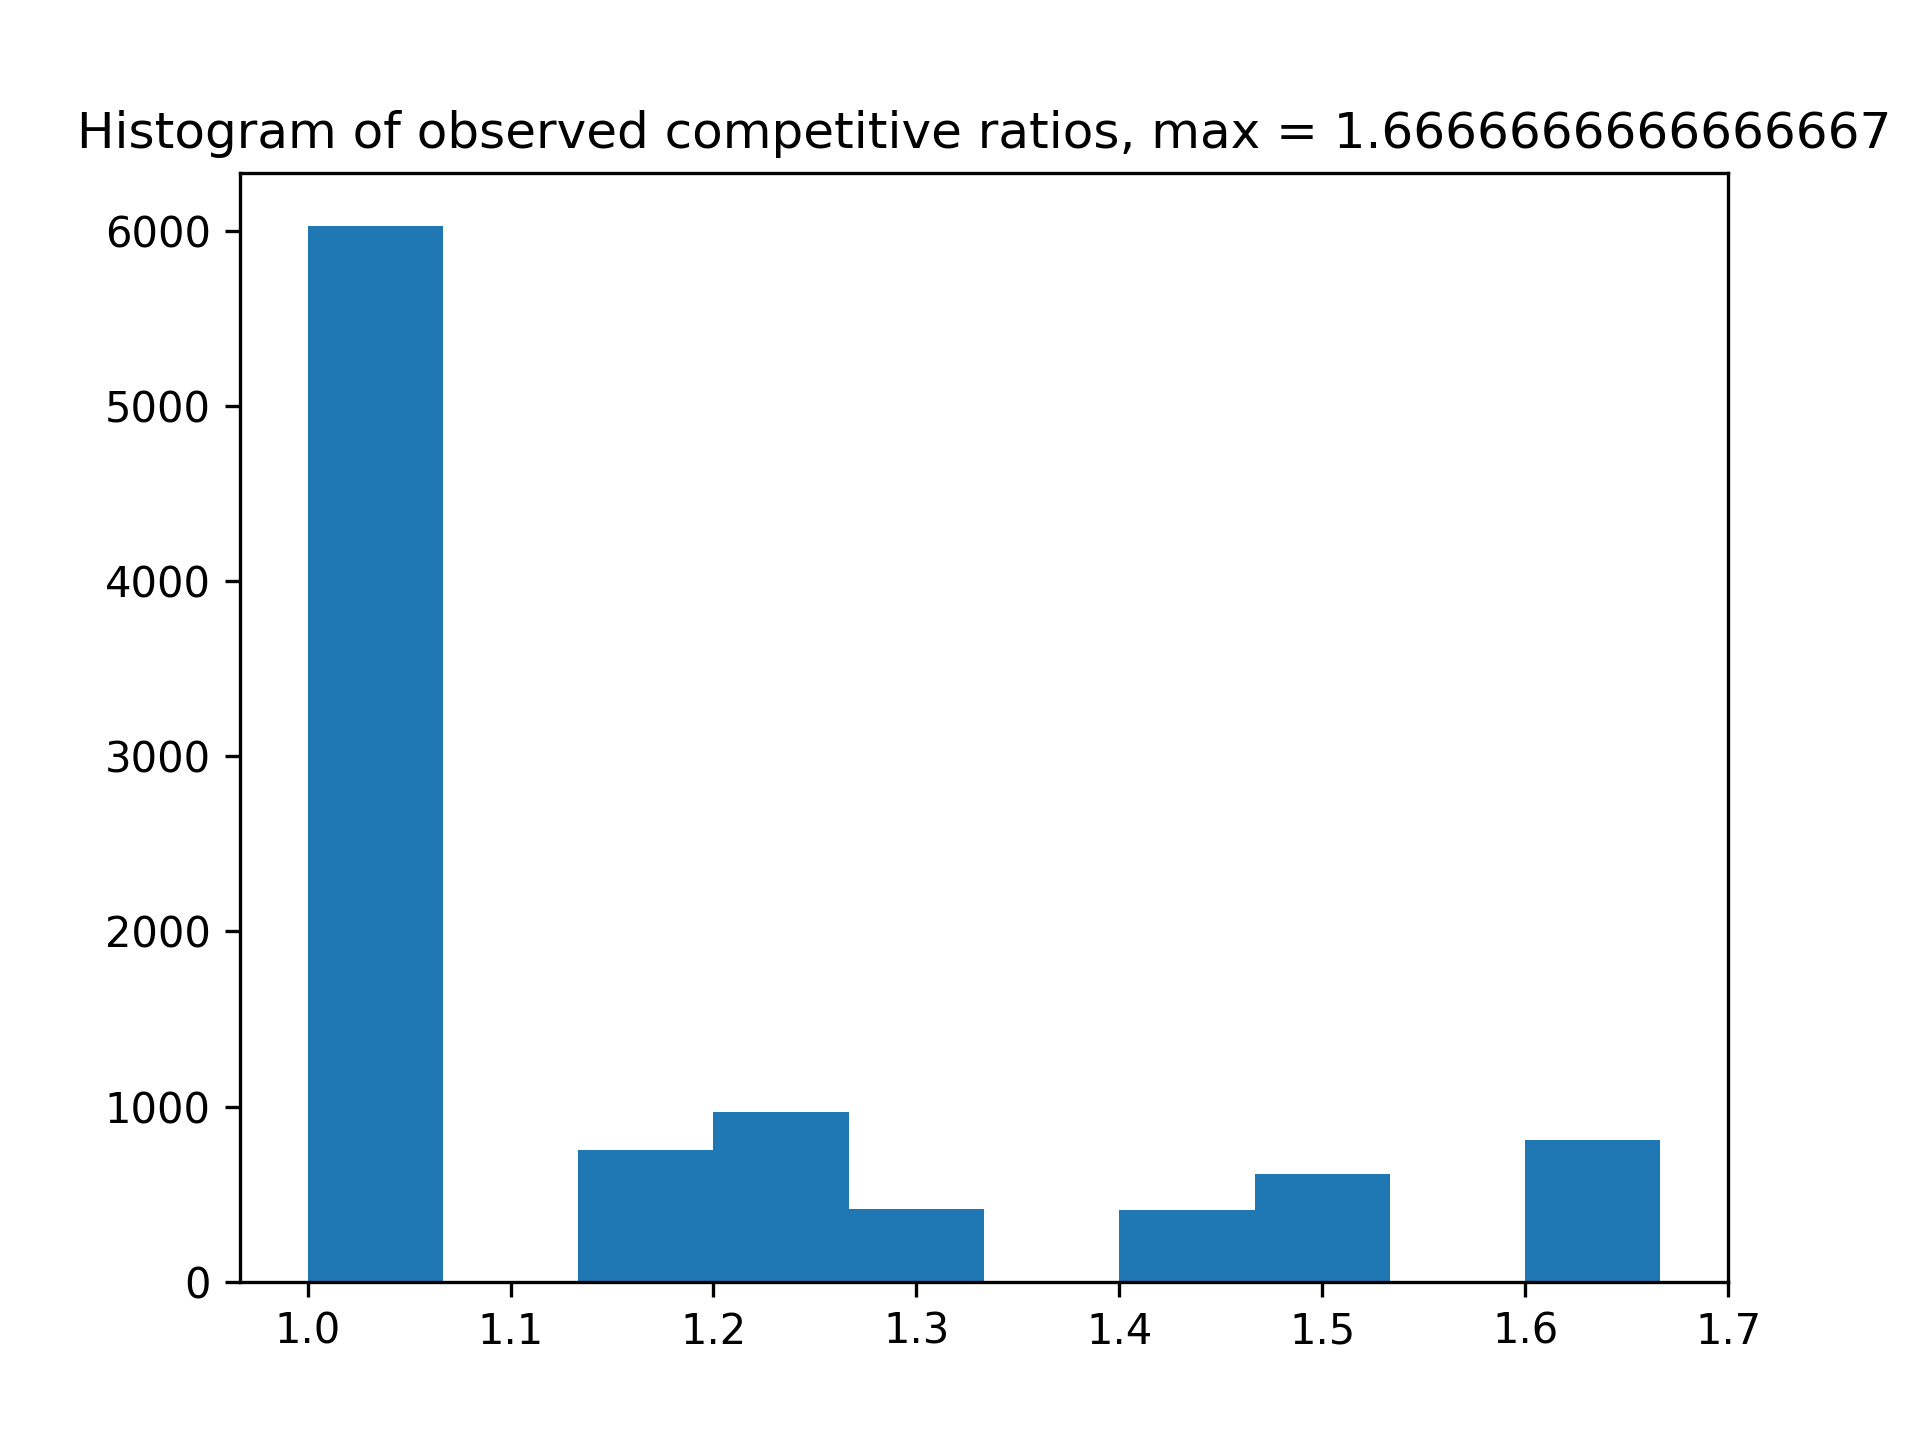
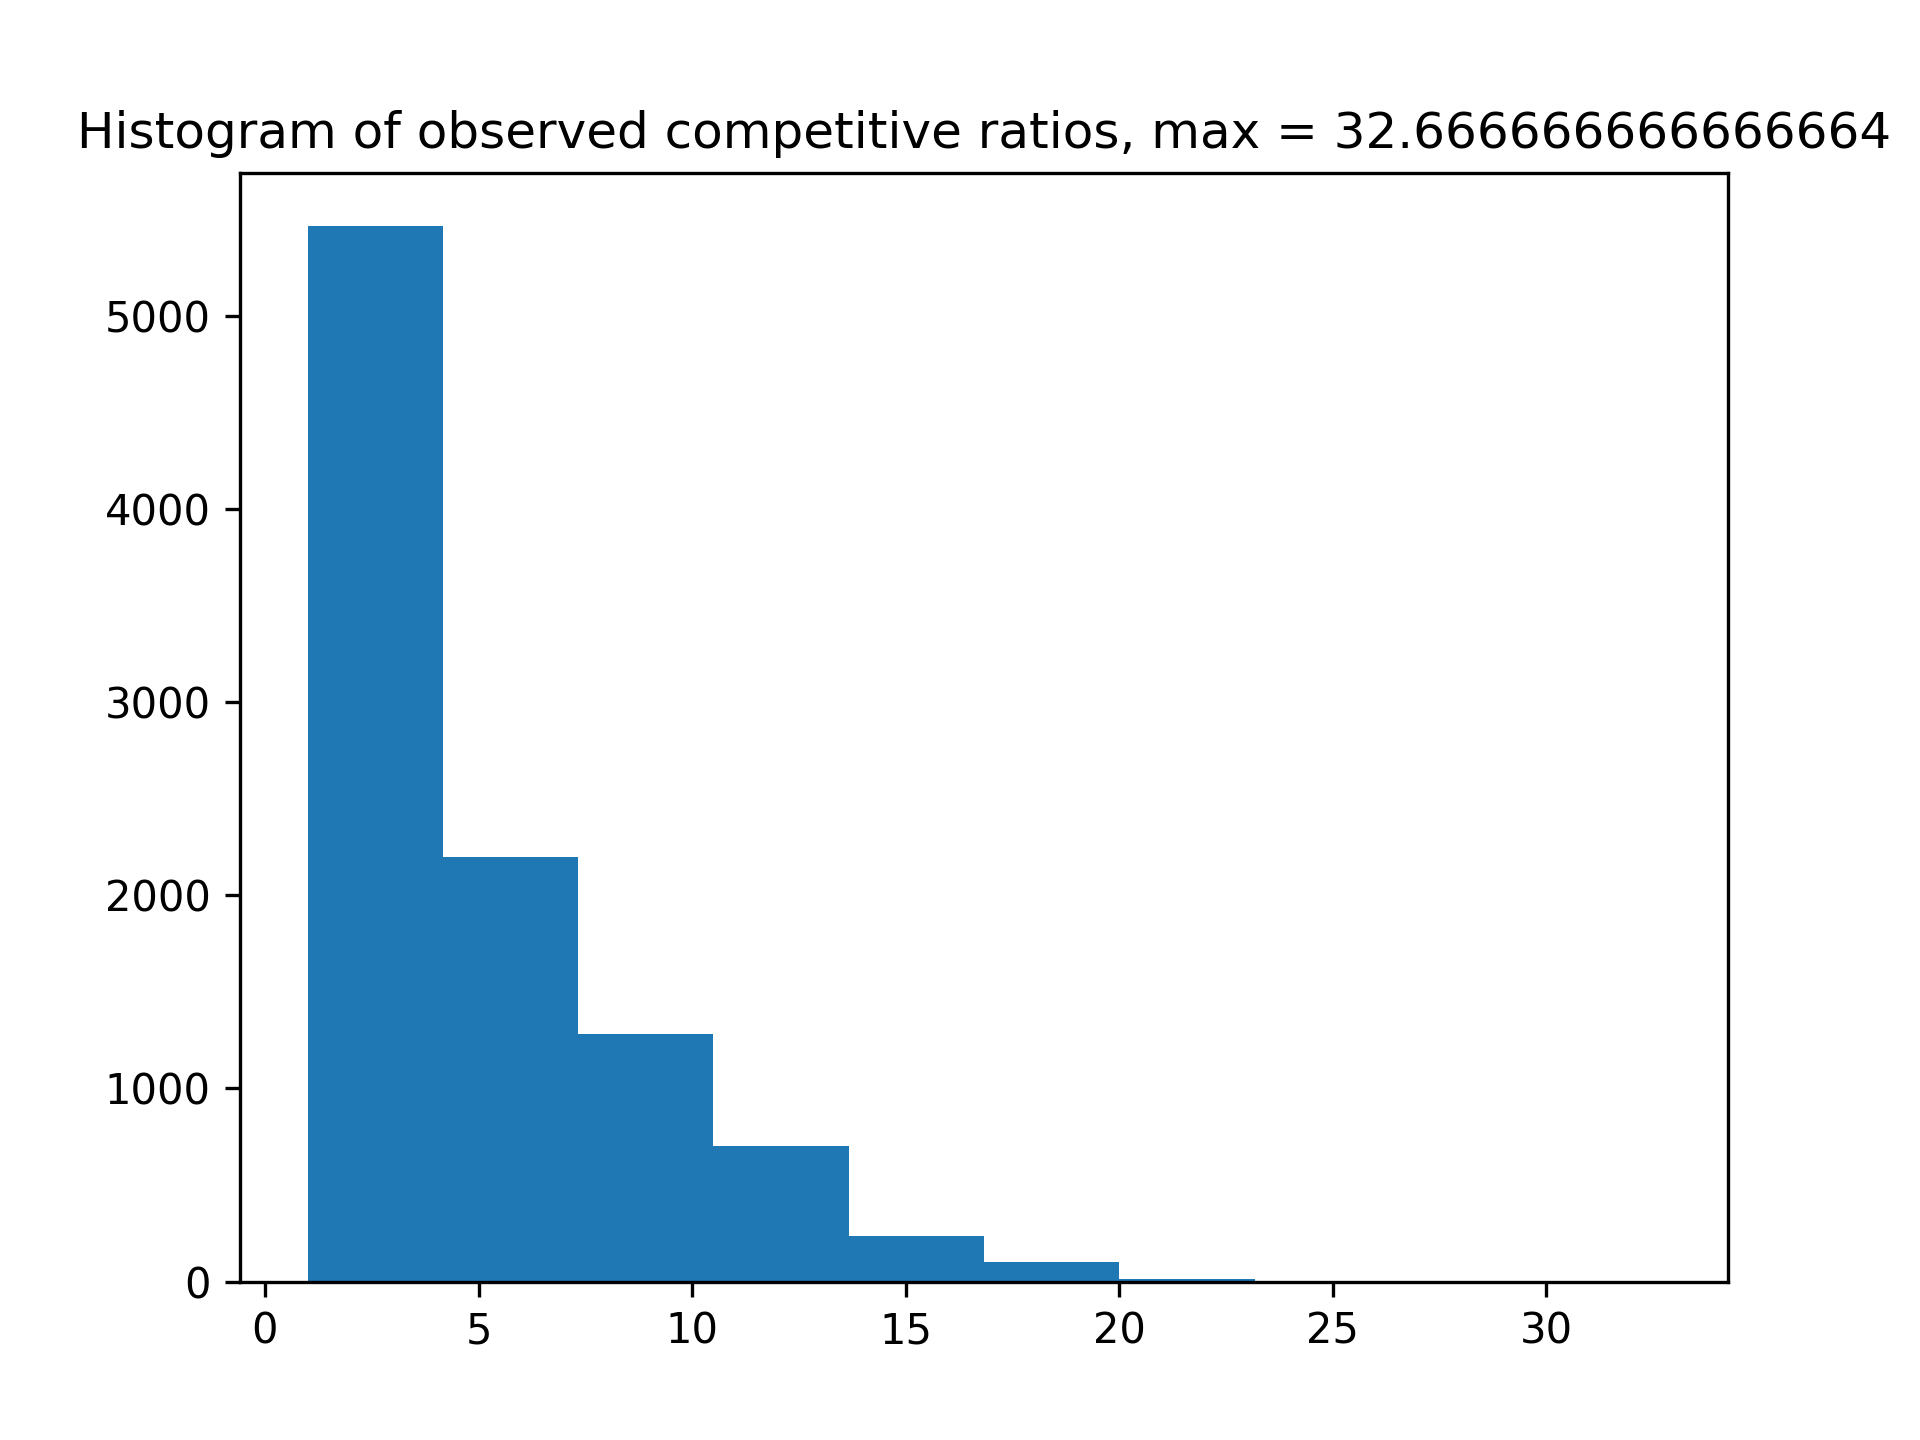
implemented super greedy

diff --git a/algorithms/online.py b/algorithms/online.py
@@ -1,5 +1,6 @@
 import sys
-
+import math
+import numpy as np
 # parent class with basic online algorithm functionality
 class OnlineAlgorithms:
     
@@ -8,12 +9,9 @@ class OnlineAlgorithms:
         self.n_remaining = None
         self.n = None
         self.m = None
-        #self.decision_function = None # every online algortithm needs a function that decides (f_i, l_i) for day i 
+        self.decision_function = None # every online algortithm needs a function that decides (f_i, l_i) for day i 
         self.buffer = []
         self.algorithm_name = "Unknown"
-
-    def decision_function(i, p_i, h_i, s_i):
-        raise NotImplementedError
 
     # for some algorithms the historic data might be useful
     def append_buffer(self, instance_data):
@@ -65,20 +63,21 @@ class qThresholdOnline(OnlineAlgorithms):
 
     # We think the optimal choice of q is q=sqrt(1/p_max)
     
-    def __init__(self, q, p_max):
+    def __init__(self, p_max):
         super().__init__()
         self.algorithm_name = "Q-Threshold Online"
-        self.threshold = q * p_max
+        self.threshold = math.floor(math.sqrt(p_max))
+        self.decision_function = self.get_decision_function()
 
-    def decision_function(i, p_i, h_i, s_i):
-        return
+    def reset(self):
+        pass
 
     # this function instantiates the decision function
     def get_decision_function(self):
 
         # given some data, decide (how many people to send back, how many people to keep in a hotel)
         def decide(n_remaining, day, s_day, p_day, h_day):
-            if p_day < self.threshold:
+            if p_day <= self.threshold:
                 decision = (s_day, n_remaining - s_day)
             elif (day + 1) >= self.m: # if last day
                 decision = (s_day, n_remaining - s_day) # send max people back
@@ -126,7 +125,8 @@ class GreedyOnline(OnlineAlgorithms):
         def decision(n_remaining, day, s_i, p_i, h_i):
             if day == self.m - 1: return [n_remaining, 0]
             p_min_temp = min(self.pmin, p_i)
-            x = round( (self.pmax*n_remaining - p_min_temp*n_remaining - self.CC*(p_min_temp-1) ) / ( self.pmax + p_i*p_min_temp - p_min_temp - p_i ))
+            # x = round( (self.pmax*n_remaining - p_min_temp*n_remaining - self.CC*(p_min_temp-1) ) / ( self.pmax + p_i*p_min_temp - p_min_temp - p_i ))
+            x = round( (self.pmax*n_remaining - p_i*n_remaining )/ ( self.pmax + p_i**2 - 2*p_i ))
             if x >= 1:
                 self.pmin = p_min_temp
             # x = round( (self.pmax*n_remaining - self.pmin*n_remaining )/ ( self.pmax + p_i**2 - 2*p_i ))
@@ -136,8 +136,34 @@ class GreedyOnline(OnlineAlgorithms):
         return decision
     
     def reset(self):
-        super().__init__()
         self.pmin = self.pmax
         self.CC = 0
         
+class SuperGreedyOnline(OnlineAlgorithms):
+    def __init__(self, pmax):
+        super().__init__()
+        self.algorithm_name = "Super_Greedy_Online" 
+        self.decision_function = self.get_decision_function()
+        self.pmax = pmax
+        self.pmin = pmax
+        self.CC = 0
 
+    def get_decision_function(self):
+        def decision(n_remaining, day, s_i, p_i, h_i):
+            if day == self.m - 1: return [n_remaining, 0]
+            self.p_min = min(self.pmin, p_i)
+            next_cost = [[(p_i_1, (self.CC + p_i*x + p_i_1*(n_remaining-x)) / min(self.p_min,p_i_1)) for p_i_1 in range(1,self.pmax+1)] for x in range(n_remaining+1)]
+            #print(next_cost)
+            next_cost_max = [(i,list(sorted(next_cost[i], key=lambda x: -x[1]))[0]) for i in range(n_remaining+1)]
+            #print(next_cost_max)
+            next_cost_person = list(sorted((next_cost_max), key=lambda x: x[1][1]))
+            x = next_cost_person[0][0]
+            #print(next_cost_person)
+            self.CC += x*p_i
+            return [x, n_remaining-x]
+
+        return decision
+    
+    def reset(self):
+        self.pmin = self.pmax
+        self.CC = 0

diff --git a/test_all.py b/test_all.py
@@ -4,17 +4,17 @@ import os
 sys.path.insert(1, os.path.dirname(os.path.dirname(__file__))) # needed to access other code
 
 import numpy as np
-from algorithms.online import qThresholdOnline, RandomOnline, GreedyOnline
+from algorithms.online import qThresholdOnline, RandomOnline, GreedyOnline, SuperGreedyOnline
 from utility_functions import generate_test_instances, test_online, plot_data, test_online_until_avgcase
 
 # use this script to automate testing multiple algorithms.
 
-number_of_test_instances = 10000
+number_of_test_instances = 1000
 
 p_min = 1
-p_max = 6
+p_max = 25
 
-instances = generate_test_instances(N=number_of_test_instances, n=3, m=2, s=3, h=0, p=(p_min, p_max))
+instances = generate_test_instances(N=number_of_test_instances, n=20, m=5, s=20, h=0, p=(p_min, p_max))
 '''
 data = test_online_until_avgcase(instances, qThresholdOnline(np.sqrt(1/p_max), p_max), number_of_test_instances / 10, 0.01)
 plot_data(data, 'figures', 'qThreshold')
@@ -23,5 +23,11 @@ data = test_online_until_avgcase(instances, RandomOnline(), number_of_test_insta
 plot_data(data, 'figures', 'RandomOnline')
 '''
 
-data = test_online(instances, GreedyOnline(pmax=p_max))
-plot_data(data, 'figures', 'GreedyOnline')
+#data = test_online(instances, GreedyOnline(pmax=p_max))
+#plot_data(data, 'figures', 'GreedyOnline')
+
+#data = test_online(instances, qThresholdOnline(p_max))
+#plot_data(data, 'figures', 'qThreshold')
+
+data = test_online(instances, SuperGreedyOnline(p_max))
+plot_data(data, 'figures', 'qThreshold')

diff --git a/utility_functions.py b/utility_functions.py
@@ -62,7 +62,7 @@ def test_online(instances, online_algorithm):
     '''
 
     data = np.zeros((len(instances),3))
-    worst_case = (0, None)
+    worst_case = (0, None, None)
     for i,I in enumerate(instances):
         # run the online algoritm on the instance (cost is stored in 'data' variable)
         online_decisions, online_total_price = online_algorithm.solve_instance(I)
@@ -74,7 +74,7 @@ def test_online(instances, online_algorithm):
         data[i] = (ratio, online_total_price, offline_total_price)
 
         if ratio > worst_case[0]:
-            worst_case = (ratio, I)
+            worst_case = (ratio, I, online_decisions)
         # print(I[3], online_decisions, ratio) # debug
     return data, worst_case
 
@@ -118,7 +118,7 @@ def test_online_until_avgcase(instances, online_algorithm, n, change_threshold):
     return data
 
 def plot_data(data, save_location, file_name):
-    print(f"Worst case instance: {data[1][1]} with competitive ratio {data[1][0]}")
+    print(f"Worst case instance: {data[1][1]} \n with competitive ratio {data[1][0]} \n by making decisions {data[1][2]}")
     plt.figure(dpi=300)
     plt.hist(data[0][:,0])
     plt.title(f"Histogram of observed competitive ratios, max = {np.max(data[0][:,0])}")
